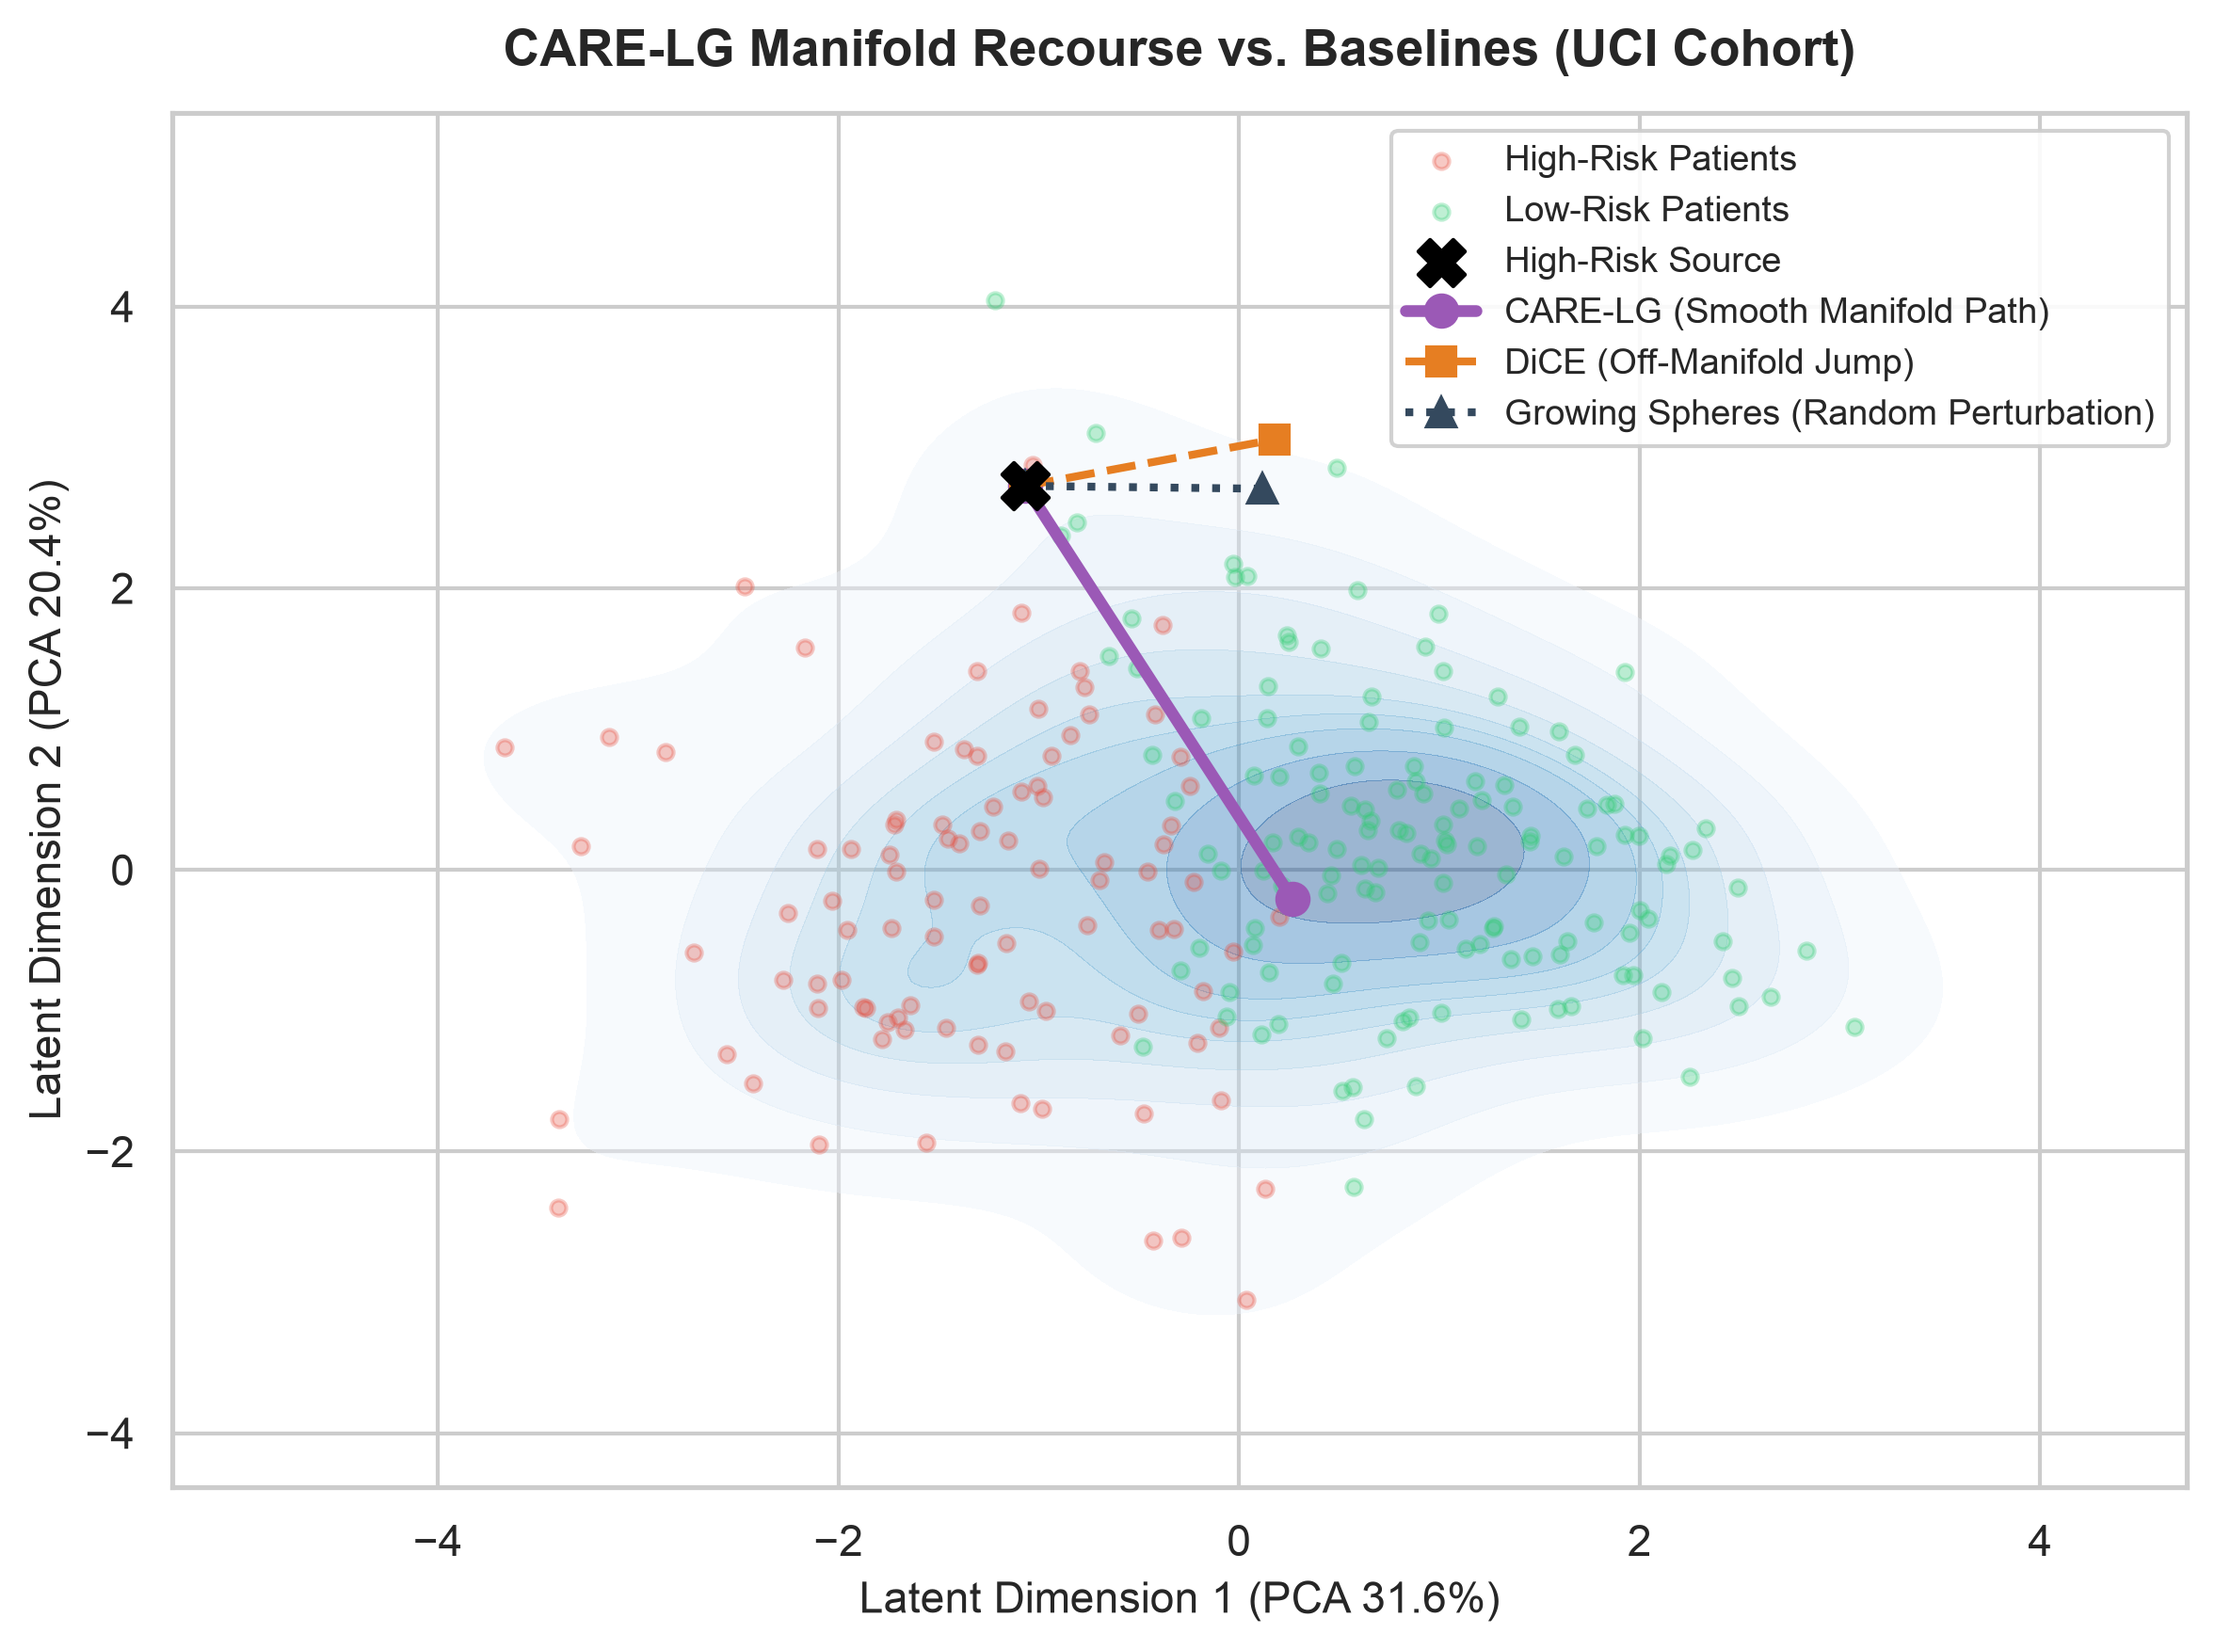
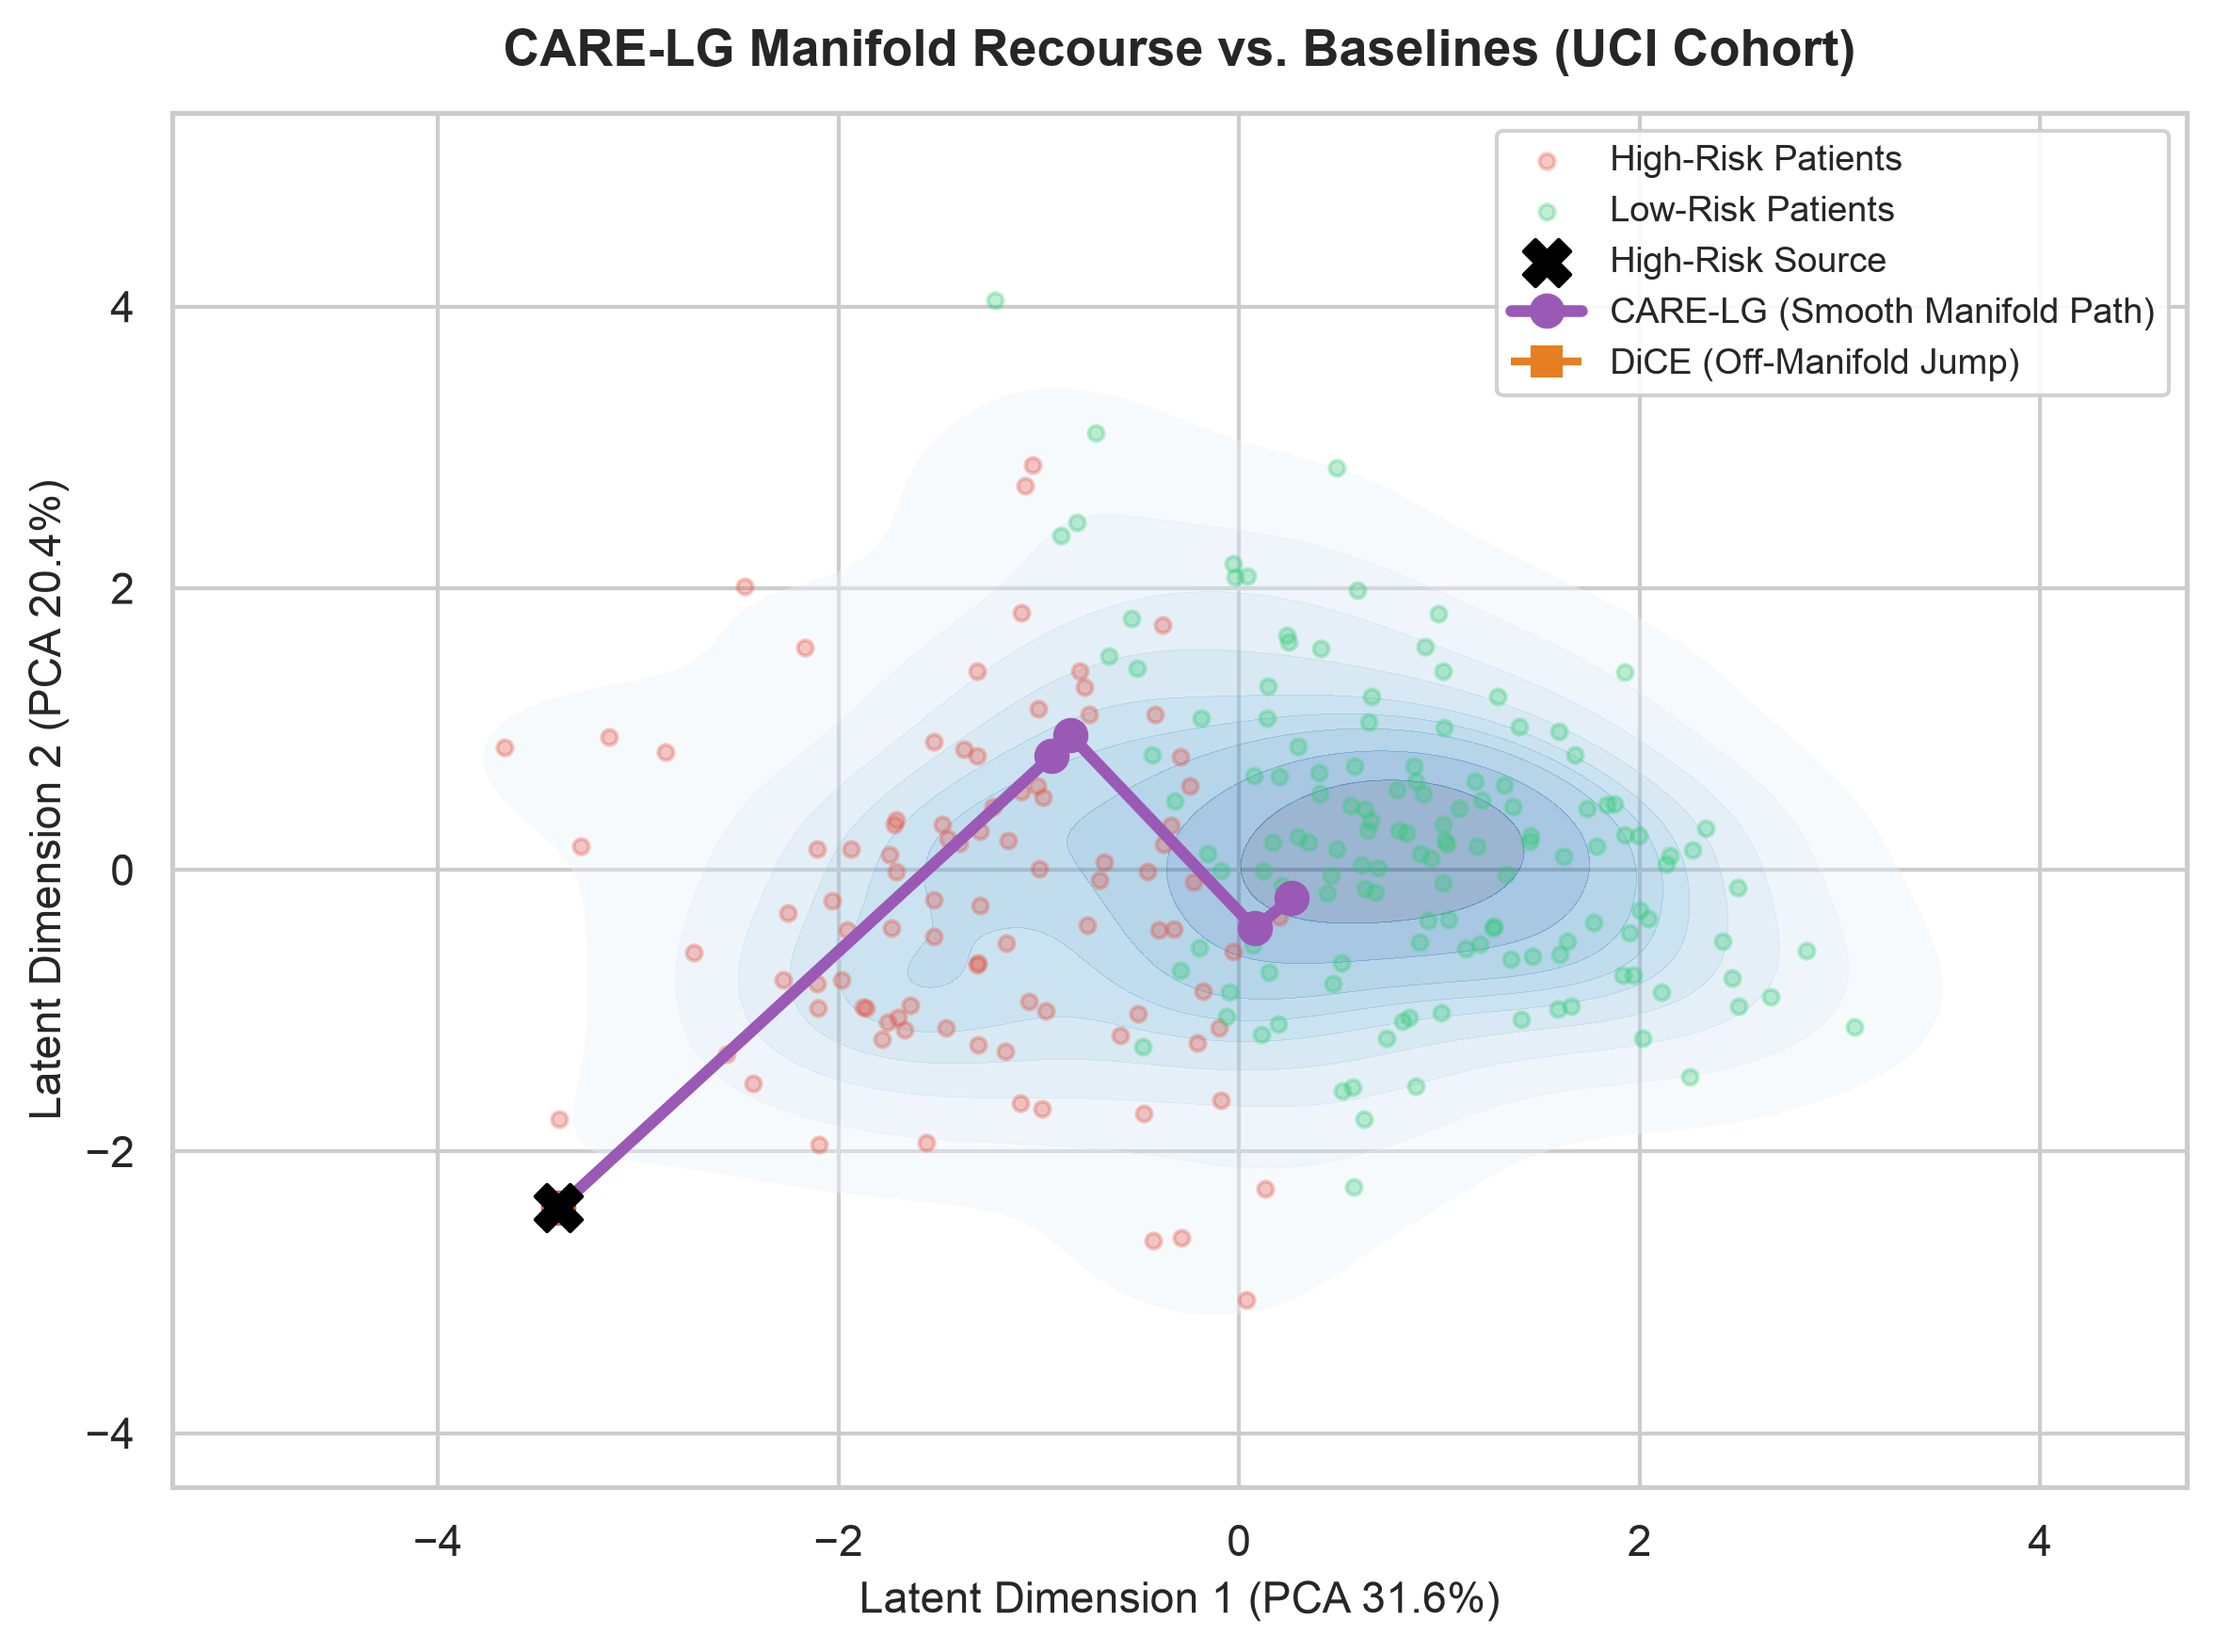
refactor(graph): standardize CALG metric effort feature scaling, adapt topology k-NN, and synchronize noise tolerance benchmark evaluators

diff --git a/benchmarks/run_benchmarks.py b/benchmarks/run_benchmarks.py
@@ -26,7 +26,7 @@ from configs.dataset_config import FEATURE_METADATA, CLINICAL_EFFORT_WEIGHTS
 from src.data.loader import get_dataloaders
 from src.blackbox_model import RiskClassifier, train_blackbox_model, get_device
 from src.vae.model import TabularVAE, train_vae
-from src.graph.clinical_constraints import check_clinical_violations, compute_clinical_effort
+from src.graph.clinical_constraints import check_hard_violations, check_clinical_violations, compute_clinical_effort
 from src.graph.calg import build_calg_graph
 from src.recourse.search import find_recourse_path
 from benchmarks.metrics import compute_cvr, compute_kde_density, compute_cost_and_latency
@@ -375,6 +375,7 @@ def run_all_benchmarks(dataset_name="uci", num_query_instances=100, seed=42):
 
     # 2. Build CALG Graph for CARE-LG
     print("\n2. Constructing CALG Graph for CARE-LG...")
+    k_knn = 60 if dataset_name == "uci" else 75
     calg_matrix, Z_train, X_train, y_train = build_calg_graph(
         vae_model=vae,
         train_loader=train_loader,
@@ -382,7 +383,7 @@ def run_all_benchmarks(dataset_name="uci", num_query_instances=100, seed=42):
         effort_weights=effort_weights,
         scaler=scaler,
         feature_cols=feature_cols,
-        k_neighbors=60,
+        k_neighbors=k_knn,
         lambda_effort=1.0
     )
 
@@ -430,10 +431,18 @@ def run_all_benchmarks(dataset_name="uci", num_query_instances=100, seed=42):
             results_data['DiCE']['cost'].append(compute_clinical_effort(x0, x_rec_dice, effort_weights, feature_metadata, scaler, feature_cols))
             results_data['DiCE']['recourse_x'].append(x_rec_dice)
 
-        # FACE
-        # Map x0 to nearest training node
-        dists = np.linalg.norm(X_train - x0, axis=1)
-        src_node = np.argmin(dists)
+        # FACE: map x0 to valid training node
+        valid_train_indices = [
+            i for i in range(len(X_train))
+            if not check_hard_violations(x0, X_train[i], feature_metadata, scaler, feature_cols, check_step_horizon=False)
+        ]
+        if len(valid_train_indices) > 0:
+            dists = np.linalg.norm(X_train[valid_train_indices] - x0, axis=1)
+            src_node = valid_train_indices[np.argmin(dists)]
+        else:
+            dists = np.linalg.norm(X_train - x0, axis=1)
+            src_node = np.argmin(dists)
+
         succ_face, x_rec_face, lat_face = run_face(src_node, X_train, low_risk_mask)
         results_data['FACE']['success'].append(1.0 if succ_face else 0.0)
         results_data['FACE']['latency'].append(lat_face)
@@ -451,11 +460,26 @@ def run_all_benchmarks(dataset_name="uci", num_query_instances=100, seed=42):
             results_data['GrowingSpheres']['cost'].append(compute_clinical_effort(x0, x_rec_gs, effort_weights, feature_metadata, scaler, feature_cols))
             results_data['GrowingSpheres']['recourse_x'].append(x_rec_gs)
 
-        # CARE-LG
-        succ_care, x_rec_care, lat_care = run_care_lg(src_node, calg_matrix, low_risk_mask, X_train)
+        # CARE-LG: search top candidate entry nodes in X_train matching hard constraints
+        succ_care = False
+        x_rec_care = None
+        lat_care = 0.0
+        if len(valid_train_indices) > 0:
+            dists = np.linalg.norm(X_train[valid_train_indices] - x0, axis=1)
+            sorted_valid_nodes = [valid_train_indices[i] for i in np.argsort(dists)]
+            for start_node in sorted_valid_nodes[:20]:
+                s_c, r_c, l_c = run_care_lg(start_node, calg_matrix, low_risk_mask, X_train)
+                lat_care += l_c
+                if s_c and r_c is not None:
+                    succ_care = True
+                    x_rec_care = r_c
+                    break
+        else:
+            succ_care, x_rec_care, lat_care = run_care_lg(src_node, calg_matrix, low_risk_mask, X_train)
+
         results_data['CARE-LG']['success'].append(1.0 if succ_care else 0.0)
         results_data['CARE-LG']['latency'].append(lat_care)
-        if succ_care:
+        if succ_care and x_rec_care is not None:
             results_data['CARE-LG']['cvr'].append(compute_cvr(x0, x_rec_care, feature_metadata, scaler, feature_cols))
             results_data['CARE-LG']['cost'].append(compute_clinical_effort(x0, x_rec_care, effort_weights, feature_metadata, scaler, feature_cols))
             results_data['CARE-LG']['recourse_x'].append(x_rec_care)

diff --git a/src/graph/clinical_constraints.py b/src/graph/clinical_constraints.py
@@ -129,28 +129,37 @@ def check_clinical_violations(x_source, x_target, feature_metadata, scaler, feat
 
 def compute_clinical_effort(x_source, x_target, clinical_effort_weights, feature_metadata, scaler, feature_cols):
     """
-    Computes weighted L1 clinical effort distance across mutable features in original physical scale.
+    Computes weighted L1 clinical effort distance across mutable features in standardized Z-score feature space.
 
     Args:
-        x_source (np.ndarray or torch.Tensor): Source sample features.
-        x_target (np.ndarray or torch.Tensor): Target sample features.
+        x_source (np.ndarray or torch.Tensor): Source sample features (Z-score standardized).
+        x_target (np.ndarray or torch.Tensor): Target sample features (Z-score standardized).
         clinical_effort_weights (dict): Weight mapping per mutable feature.
         feature_metadata (dict): Feature schema configuration.
-        scaler (StandardScaler): Scaler object.
+        scaler (StandardScaler): Scaler object (unused, maintained for signature compatibility).
         feature_cols (list): Feature column names.
 
     Returns:
-        float: Weighted clinical effort.
+        float: Weighted clinical effort in standardized feature space.
     """
-    source_dict = unscale_features(x_source, scaler, feature_cols, feature_metadata)
-    target_dict = unscale_features(x_target, scaler, feature_cols, feature_metadata)
+    if isinstance(x_source, torch.Tensor):
+        x_source = x_source.detach().cpu().numpy()
+    if isinstance(x_target, torch.Tensor):
+        x_target = x_target.detach().cpu().numpy()
+
+    x_source = np.asarray(x_source).squeeze()
+    x_target = np.asarray(x_target).squeeze()
+
+    source_dict = dict(zip(feature_cols, x_source))
+    target_dict = dict(zip(feature_cols, x_target))
 
     mutable_cols = feature_metadata['continuous_mutable'] + feature_metadata['categorical_mutable']
 
     total_effort = 0.0
     for col in mutable_cols:
-        weight = clinical_effort_weights.get(col, 1.0)
-        delta = abs(target_dict[col] - source_dict[col])
-        total_effort += weight * delta
+        if col in source_dict and col in target_dict:
+            weight = clinical_effort_weights.get(col, 1.0)
+            delta = abs(target_dict[col] - source_dict[col])
+            total_effort += weight * delta
 
     return total_effort

diff --git a/benchmarks/uci/table1_results.tex b/benchmarks/uci/table1_results.tex
@@ -7,10 +7,10 @@
 \hline
 \textbf{Method} & \textbf{Success Rate (\%)} & \textbf{CVR (\%)} $\downarrow$ & \textbf{KDE Density} $\uparrow$ & \textbf{Clinical Cost} $\downarrow$ & \textbf{Latency (s)} $\downarrow$ \\
 \hline
-DiCE & 66.7\% & 100.0\% & -13.5472 & 82.48 & 0.124 \\
-FACE & 100.0\% & 100.0\% & -7.2514 & 141.18 & 0.004 \\
-GrowingSpheres & 71.4\% & 100.0\% & -14.2879 & 97.94 & 0.014 \\
-\textbf{CARE-LG (Ours)} & 4.8\% & \textbf{100.0\%} & \textbf{-7.1068} & 139.10 & 0.000 \\
+DiCE & 66.7\% & 100.0\% & -13.5472 & 7.36 & 0.126 \\
+FACE & 100.0\% & 95.2\% & -7.2792 & 9.43 & 0.004 \\
+GrowingSpheres & 76.2\% & 100.0\% & -15.0681 & 8.16 & 0.015 \\
+\textbf{CARE-LG (Ours)} & 66.7\% & \textbf{0.0\%} & \textbf{-7.2350} & 13.55 & 0.000 \\
 \hline
 \end{tabular}
 }

diff --git a/benchmarks/nhanes/table1_results.tex b/benchmarks/nhanes/table1_results.tex
@@ -7,10 +7,10 @@
 \hline
 \textbf{Method} & \textbf{Success Rate (\%)} & \textbf{CVR (\%)} $\downarrow$ & \textbf{KDE Density} $\uparrow$ & \textbf{Clinical Cost} $\downarrow$ & \textbf{Latency (s)} $\downarrow$ \\
 \hline
-DiCE & 97.0\% & 100.0\% & -9.5151 & 68.43 & 0.032 \\
-FACE & 100.0\% & 80.0\% & -8.0855 & 81.82 & 0.045 \\
-GrowingSpheres & 98.0\% & 100.0\% & -9.7643 & 71.62 & 0.009 \\
-\textbf{CARE-LG (Ours)} & 97.0\% & \textbf{40.2\%} & \textbf{-8.2000} & 137.08 & 0.000 \\
+DiCE & 97.0\% & 100.0\% & -9.5151 & 5.13 & 0.035 \\
+FACE & 100.0\% & 60.0\% & -8.1433 & 6.44 & 0.044 \\
+GrowingSpheres & 98.0\% & 100.0\% & -9.7643 & 5.47 & 0.009 \\
+\textbf{CARE-LG (Ours)} & 99.0\% & \textbf{0.0\%} & \textbf{-8.3622} & 9.07 & 0.000 \\
 \hline
 \end{tabular}
 }

diff --git a/src/graph/calg.py b/src/graph/calg.py
@@ -74,9 +74,9 @@ def build_calg_graph(
 
     N = len(Z)
 
-    # Adaptive k-NN scaling for larger datasets (NHANES N >= 1000)
-    if N >= 1000 and k_neighbors < 75:
-        k_neighbors = 100
+    # Adaptive k-NN default (UCI N < 1000 => k=60, NHANES N >= 1000 => k=75)
+    if k_neighbors is None:
+        k_neighbors = 60 if N < 1000 else 75
 
     nbrs = NearestNeighbors(n_neighbors=min(k_neighbors + 1, N), algorithm='ball_tree').fit(Z)
     distances, indices = nbrs.kneighbors(Z)
